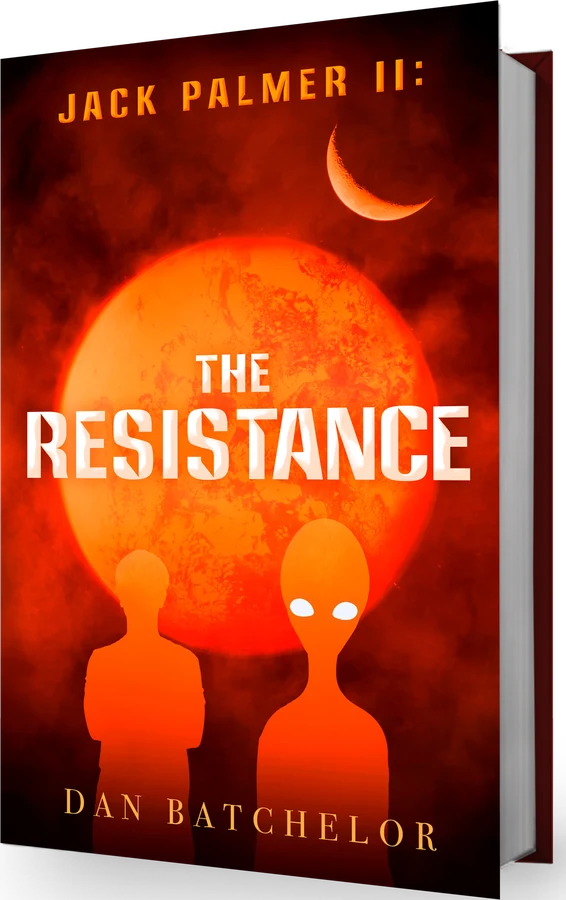
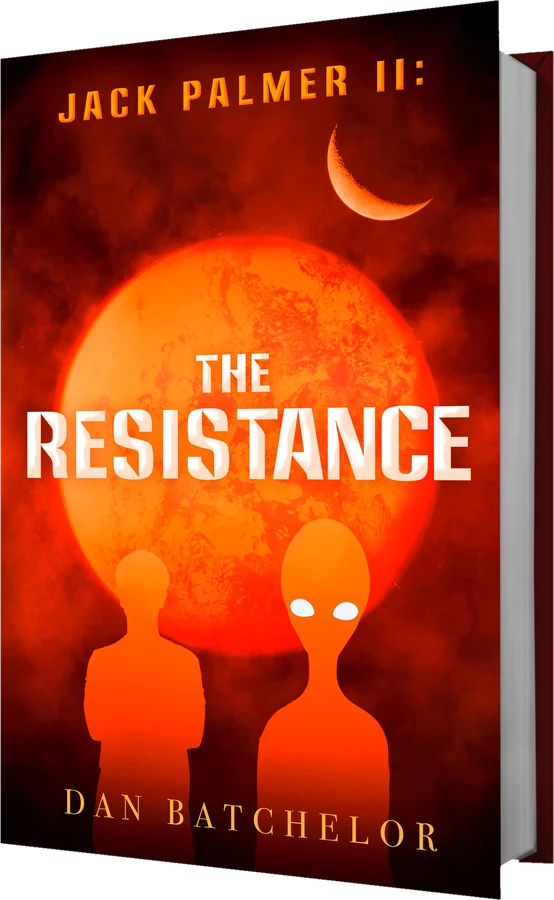
Scroll moment: six pairs of eyes open in the dark, then the light comes up

diff --git a/index.html b/index.html
@@ -24,13 +24,13 @@ a{color:var(--glow)}
 nav.top{position:fixed;z-index:30;right:12px;top:48px;display:flex;gap:1rem;background:rgba(5,11,36,.88);border:1px solid rgba(191,228,255,.35);padding:.5rem 1rem}
 nav.top a{color:var(--ink);text-decoration:none;font:600 .95rem "Saira Condensed",sans-serif;letter-spacing:.08em;text-transform:uppercase}
 @media(max-width:700px){nav.top{top:auto;bottom:12px;right:50%;transform:translateX(50%);white-space:nowrap}}
-.hero{position:relative;height:320vh}
+.hero{position:relative;height:400vh}
 .stage{position:sticky;top:0;height:100vh;height:100svh;overflow:hidden;background:var(--navy)}
 .bg{position:absolute;inset:-2%;width:104%;height:104%;object-fit:cover;opacity:0;will-change:opacity}
-#bg1{opacity:1}
-.bk{position:absolute;left:0;top:0;width:var(--bw);will-change:transform,opacity;opacity:0}
-.bk img{display:block;width:100%;height:auto;filter:drop-shadow(0 24px 30px rgba(0,0,0,.55))}
-#b1{opacity:1}
+.bk{position:absolute;left:0;top:0;width:var(--bw);will-change:transform}
+.bk #cv{display:block;width:100%;height:auto;opacity:0;will-change:opacity}
+.bk .eye{position:absolute;height:auto;opacity:0;transform:scaleY(.08);will-change:transform,opacity}
+.copy{opacity:0;will-change:opacity}
 .copy{position:absolute;z-index:4;left:20px;right:20px;bottom:76px;text-align:center}
 .copy h1{font-size:clamp(2.6rem,12vw,4.6rem);line-height:.95;text-shadow:0 2px 24px rgba(0,0,0,.6)}
 .copy .lab{font:600 1.35rem "Saira Condensed",sans-serif;letter-spacing:.14em;text-transform:uppercase;margin:.4rem 0 1rem;min-height:1.6rem;color:var(--glow);text-shadow:0 2px 14px #000}
@@ -55,7 +55,7 @@ h2{font-size:clamp(2rem,6vw,3.2rem);line-height:1;margin-bottom:1.4rem;color:var
 .fair .big{color:var(--glow);font-size:clamp(2.2rem,8vw,3.8rem);line-height:1}
 .find{margin-top:2.2rem}
 footer{text-align:center;color:var(--soft);font-size:.9rem;padding:3rem 16px 6rem;border-top:1px solid rgba(191,228,255,.2)}
-@media (prefers-reduced-motion:reduce){.hero{height:auto}.stage{position:relative;height:auto;padding:2rem 20px 7rem;min-height:100svh}.bk{position:relative;margin:0 auto 1rem;width:min(60vw,260px)!important;transform:none!important}.copy{position:relative;left:auto;right:auto;bottom:auto;top:auto;width:auto;transform:none!important;text-align:center}.btns{justify-content:center}.stage::after{display:none}}
+@media (prefers-reduced-motion:reduce){.hero{height:auto}.stage{position:relative;height:auto;padding:2rem 20px 7rem;min-height:100svh}.bk{position:relative;margin:0 auto 1rem;width:min(60vw,260px)!important;transform:none!important}.bk #cv,.bg,.copy{opacity:1!important}.bk .eye{display:none}.copy{position:relative;left:auto;right:auto;bottom:auto;top:auto;width:auto;transform:none!important;text-align:center}.btns{justify-content:center}.stage::after{display:none}}
 </style>
 </head>
 <body>
@@ -64,14 +64,10 @@ footer{text-align:center;color:var(--soft);font-size:.9rem;padding:3rem 16px 6re
 <header class="hero">
   <div class="stage" id="stage">
     <img class="bg" id="bg1" src="img/bg1.jpg" alt="">
-    <img class="bg" id="bg2" src="img/bg2.jpg" alt="">
-    <img class="bg" id="bg3" src="img/bg3.jpg" alt="">
-    <div class="bk" id="b1" role="img" aria-label="Jack Palmer: A New Order, a dark blue cover with six glowing alien eyes"><img src="img/jp1.webp" alt="" width="580" height="900"></div>
-    <div class="bk" id="b2" role="img" aria-label="Jack Palmer II: The Resistance, a red planet with a boy and an alien in silhouette"><img src="img/jp2.webp" alt="" width="566" height="900"></div>
-    <div class="bk" id="b3" role="img" aria-label="Jack Palmer III: Redemption, a green Earth with an alien peering up from below"><img src="img/jp3.webp" alt="" width="599" height="900"></div>
+    <div class="bk" id="b1" role="img" aria-label="Jack Palmer: A New Order, a dark blue cover with six glowing alien eyes"><img id="cv" src="img/jp1.webp" alt="" width="559" height="900"><img class="eye" src="img/eye1.webp" alt="" style="left:8.625%;top:14.824%;width:16.442%"><img class="eye" src="img/eye2.webp" alt="" style="left:33.423%;top:15.662%;width:19.542%"><img class="eye" src="img/eye3.webp" alt="" style="left:60.916%;top:13.568%;width:18.733%"><img class="eye" src="img/eye4.webp" alt="" style="left:62.534%;top:74.121%;width:18.329%"><img class="eye" src="img/eye5.webp" alt="" style="left:33.962%;top:76.717%;width:18.598%"><img class="eye" src="img/eye6.webp" alt="" style="left:8.221%;top:71.692%;width:17.116%"></div>
     <div class="copy" id="copy">
       <h1 class="t">Jack Palmer</h1>
-      <div class="lab" id="lab">A New Order</div>
+      <div class="lab">A New Order</div>
       <div class="btns"><a class="btn" href="https://www.waterstones.com/book/jack-palmer-a-new-order/dan-batchelor/9781803782874">Start with book one</a><a class="btn o" href="#meet">See me this December</a></div>
     </div>
   </div>
@@ -80,19 +76,19 @@ footer{text-align:center;color:var(--soft);font-size:.9rem;padding:3rem 16px 6re
 <section class="s" id="books">
   <h2 class="t">Three books. One war.</h2>
   <div class="bkrow" style="--bgi:url(img/bg1.jpg)">
-    <img src="img/jp1.webp" alt="Jack Palmer: A New Order" width="580" height="900" loading="lazy">
+    <img src="img/jp1.webp" alt="Jack Palmer: A New Order" width="559" height="900" loading="lazy">
     <div><h3 class="t" style="font-size:1.8rem">Jack Palmer: A New Order</h3>
     <p>In the movies I watched growing up, when aliens invaded, humans came together to save the world. In this story, things go very differently.</p>
     <div class="btns" style="justify-content:flex-start"><a class="btn" href="https://www.waterstones.com/book/jack-palmer-a-new-order/dan-batchelor/9781803782874">Waterstones</a><a class="btn o" href="https://www.amazon.co.uk/dp/1803782870">Amazon</a></div></div>
   </div>
   <div class="bkrow" style="--bgi:url(img/bg2.jpg)">
-    <img src="img/jp2.webp" alt="Jack Palmer II: The Resistance" width="566" height="900" loading="lazy">
+    <img src="img/jp2.webp" alt="Jack Palmer II: The Resistance" width="554" height="900" loading="lazy">
     <div><h3 class="t" style="font-size:1.8rem">Jack Palmer II: The Resistance</h3>
     <p>The Resistance has grown in the shadows since long before the Elders' invasion. Now their secret is out, and with the Elders' supreme leader hunting every last traitor, they are outgunned, outnumbered and forced into hiding. This is a war humanity cannot win alone.</p>
     <div class="btns" style="justify-content:flex-start"><a class="btn" href="https://www.waterstones.com/book/jack-palmer-the-resistance/dan-batchelor/9781803784168">Waterstones</a><a class="btn o" href="https://www.amazon.co.uk/dp/B0H3L6KGVF">Kindle</a></div></div>
   </div>
   <div class="bkrow" style="--bgi:url(img/bg3.jpg)">
-    <img src="img/jp3.webp" alt="Jack Palmer III: Redemption" width="599" height="900" loading="lazy">
+    <img src="img/jp3.webp" alt="Jack Palmer III: Redemption" width="555" height="900" loading="lazy">
     <div><h3 class="t" style="font-size:1.8rem">Jack Palmer III: Redemption</h3>
     <p>The third book is up for preorder now.</p>
     <div class="btns" style="justify-content:flex-start"><a class="btn" href="https://www.waterstones.com/book/jack-palmer-redemption/dan-batchelor/9781803784465">Preorder at Waterstones</a><a class="btn o" href="https://www.amazon.co.uk/dp/1803784466">Amazon</a></div></div>
@@ -119,19 +115,17 @@ footer{text-align:center;color:var(--soft);font-size:.9rem;padding:3rem 16px 6re
 </main>
 <footer>A mockup made by Sparsh Saini for Dan Batchelor. Not affiliated, not live.</footer>
 <script>
-(()=>{const hero=document.querySelector('.hero'),stage=document.getElementById('stage'),lab=document.getElementById('lab'),copy=document.getElementById('copy'),bg=[1,2,3].map(i=>document.getElementById('bg'+i)),bk=[1,2,3].map(i=>document.getElementById('b'+i));
-if(matchMedia('(prefers-reduced-motion: reduce)').matches){bk[0].style.opacity=1;return}
-const names=['A New Order','The Resistance','Redemption, preorder now'];let W,H,bw,bh,rx,ry,ht,tick=false,cur=-1;const cl=v=>Math.max(0,Math.min(1,v)),eio=t=>t<.5?2*t*t:1-Math.pow(-2*t+2,2)/2;
-function measure(){W=innerWidth;H=stage.clientHeight;const d=W>=900;bw=d?Math.min(H*.7*.64,W*.3):Math.min(W*.56,H*.46*.64);bh=bw/.64;bk.forEach(b=>b.style.setProperty('--bw',bw+'px'));rx=d?W*.3-bw/2:W/2-bw/2;ry=d?H/2-bh/2:H*.07;ht=hero.offsetHeight-H;draw()}
+(()=>{const hero=document.querySelector('.hero'),stage=document.getElementById('stage'),copy=document.getElementById('copy'),bg=document.getElementById('bg1'),bk=document.getElementById('b1'),cv=document.getElementById('cv'),eyes=[...bk.querySelectorAll('.eye')];
+if(matchMedia('(prefers-reduced-motion: reduce)').matches)return;
+let W,H,bw,bh,rx,ry,ht,tick=false;const cl=v=>Math.max(0,Math.min(1,v)),eo=t=>1-Math.pow(1-t,3),eio=t=>t<.5?4*t*t*t:1-Math.pow(-2*t+2,3)/2;
+function measure(){W=innerWidth;H=stage.clientHeight;const d=W>=900;bw=d?Math.min(H*.72*.62,W*.3):Math.min(W*.6,H*.5*.62);bh=bw/.62;bk.style.setProperty('--bw',bw+'px');rx=d?W*.3-bw/2:W/2-bw/2;ry=d?H/2-bh/2:H*.06;ht=hero.offsetHeight-H;draw()}
 function draw(){tick=false;const p=cl((scrollY-hero.offsetTop)/ht);
- // three hops: 0-.3 book one, .3-.36 swap, .36-.66 book two, .66-.72 swap, then book three
- const a=eio(cl((p-.3)/.1)),b=eio(cl((p-.62)/.1));
- bg[0].style.opacity=1;bg[1].style.opacity=a;bg[2].style.opacity=b;
- const o=[1-a,a*(1-b),b];
- bk.forEach((e,i)=>{const sw=i==0?a:i==1?(b>0?b:1-a):1-b;const dir=i==0?-1:1;const slide=i==0?-a:i==1?(1-a)-b:(1-b);
-  e.style.opacity=o[i].toFixed(3);e.style.transform=`translate(${rx}px,${ry+(i==0?-a*bh*.12:i==1?(1-a)*bh*.12-b*bh*.12:(1-b)*bh*.12)}px) scale(${.96+.04*o[i]})`});
- const s=p<.36?0:p<.68?1:2;if(s!==cur){cur=s;lab.textContent=names[s]}
-}
+ // dark: six pairs of eyes open round the ring, one alien at a time, each with a blink; then the light comes up on whose eyes they are
+ eyes.forEach((e,i)=>{const x=cl((p+.03-i*.075)/.09);const bl=x<1?Math.min(1,x*1.6):1;const blink=Math.sin(Math.PI*cl((x-.62)/.38));
+  e.style.opacity=(cl(x*2)*(1-cl((p-.72)/.08))).toFixed(3);e.style.transform=`scaleY(${Math.max(.06,eo(bl)*(1-.92*blink)).toFixed(3)})`});
+ const l=eio(cl((p-.52)/.24));cv.style.opacity=l.toFixed(3);bg.style.opacity=(l*.95).toFixed(3);
+ const z=eio(cl((p-.5)/.3));bk.style.transform=`translate(${rx}px,${ry}px) scale(${1.35-.35*z})`;
+ const c=cl((p-.8)/.14);copy.style.opacity=c.toFixed(3);copy.style.transform=(W>=900?'translateY(-50%) ':'')+`translateY(${(1-c)*14}px)`}
 addEventListener('scroll',()=>{if(!tick){tick=true;requestAnimationFrame(draw)}},{passive:true});addEventListener('resize',measure);measure()})();
 </script>
 </body>
